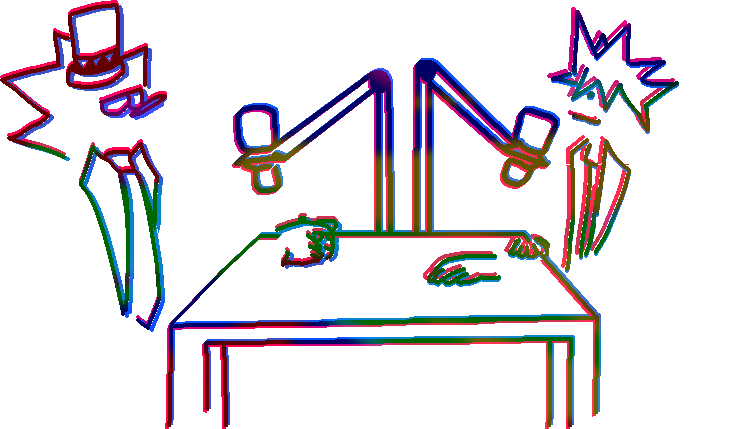
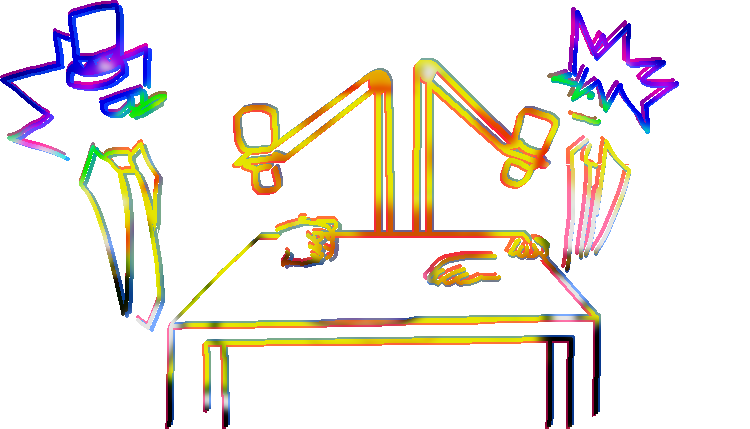
wtat season 2 official + 11 08 2026 episode

Changed region(s): [[0.0, 0.0, 0.92, 1.0], [0.276, 0.6061, 0.3067, 0.6667], [0.3067, 0.5758, 0.3373, 0.6061]]

diff --git a/wtat/archive/index.html b/wtat/archive/index.html
@@ -81,10 +81,11 @@
 		height: 100%;
 		">
 			<center>
-			<img src="/wtat/assets/rainbow2_bgless.png" style="width: 25%; margin-bottom: 12px;"/><br>
+			
+			<!-- season 2 -->
 			<hr style="width: 200px;">
-
-			<h2>Season 2</h2>
+			<a class="amatic-sc-regular" style="font-size: 6em; margin-bottom: 8px;">Season 2</a><br>
+			<img src="/wtat/assets/rainbow3_bgless.png" style="width: 25%; margin-bottom: 12px;"/><br>
 			<hr>
 
 			<div style="margin-bottom: 52px;">
@@ -131,9 +132,12 @@
 				<br>
 				
 				<hr>
-				
-				<h2>Season 1</h2>
-				<hr>
+			
+			<!-- season 1 -->
+			<hr style="width: 200px; margin-top: 100px;">
+			<a class="amatic-sc-regular" style="font-size: 6em; margin-bottom: 8px;">Season 1</a><br>
+			<img src="/wtat/assets/rainbow2_bgless.png" style="width: 25%; margin-bottom: 12px;"/><br>
+			<hr>
 
 				<br>
 				<a class="amatic-sc-regular" style="font-size: 3em; margin-bottom: 8px;">Funky Town Schmelects</a><br>
